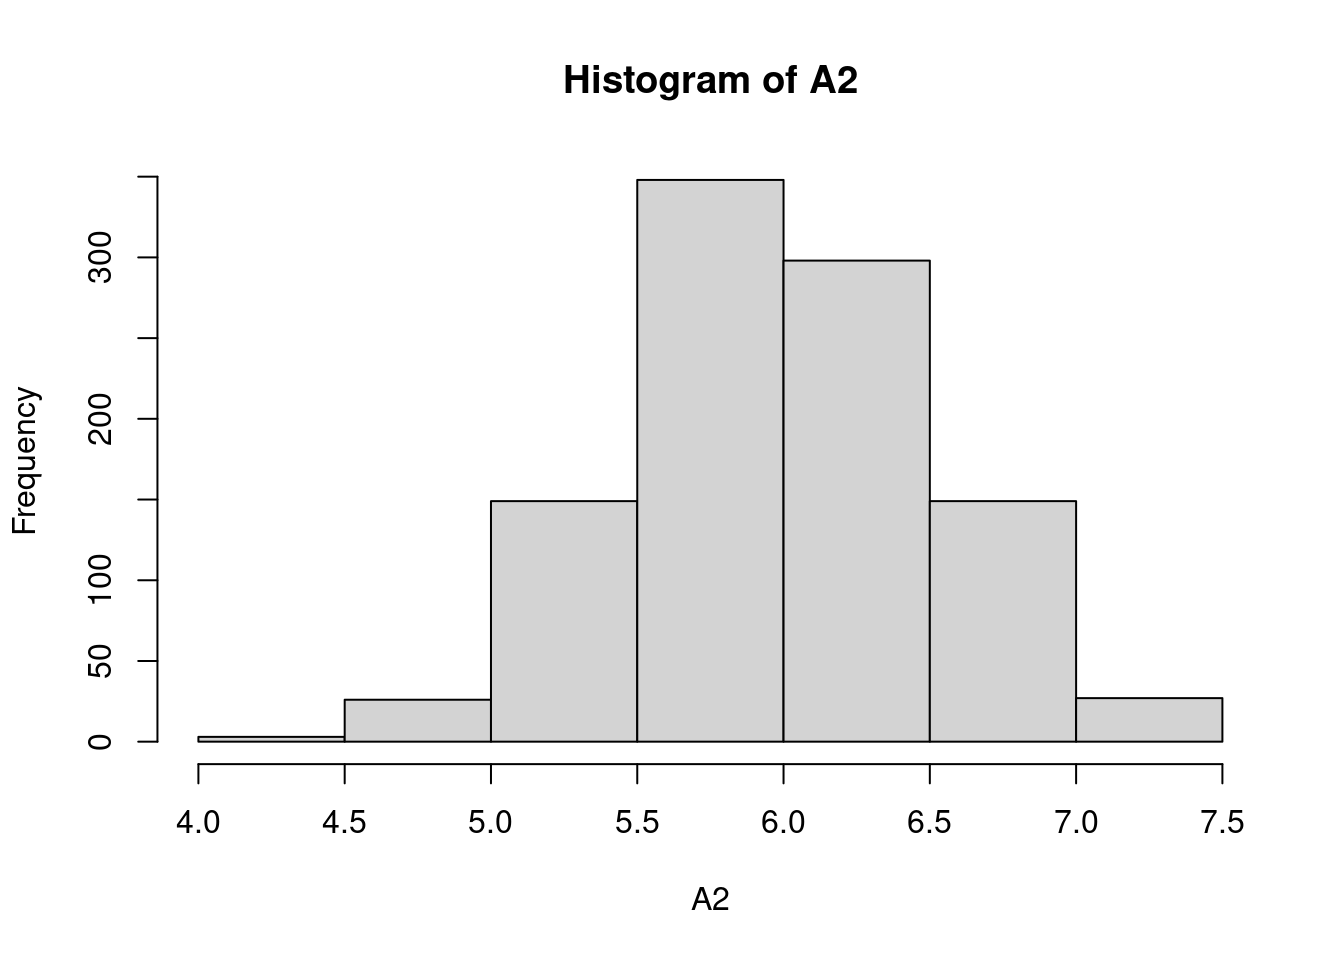
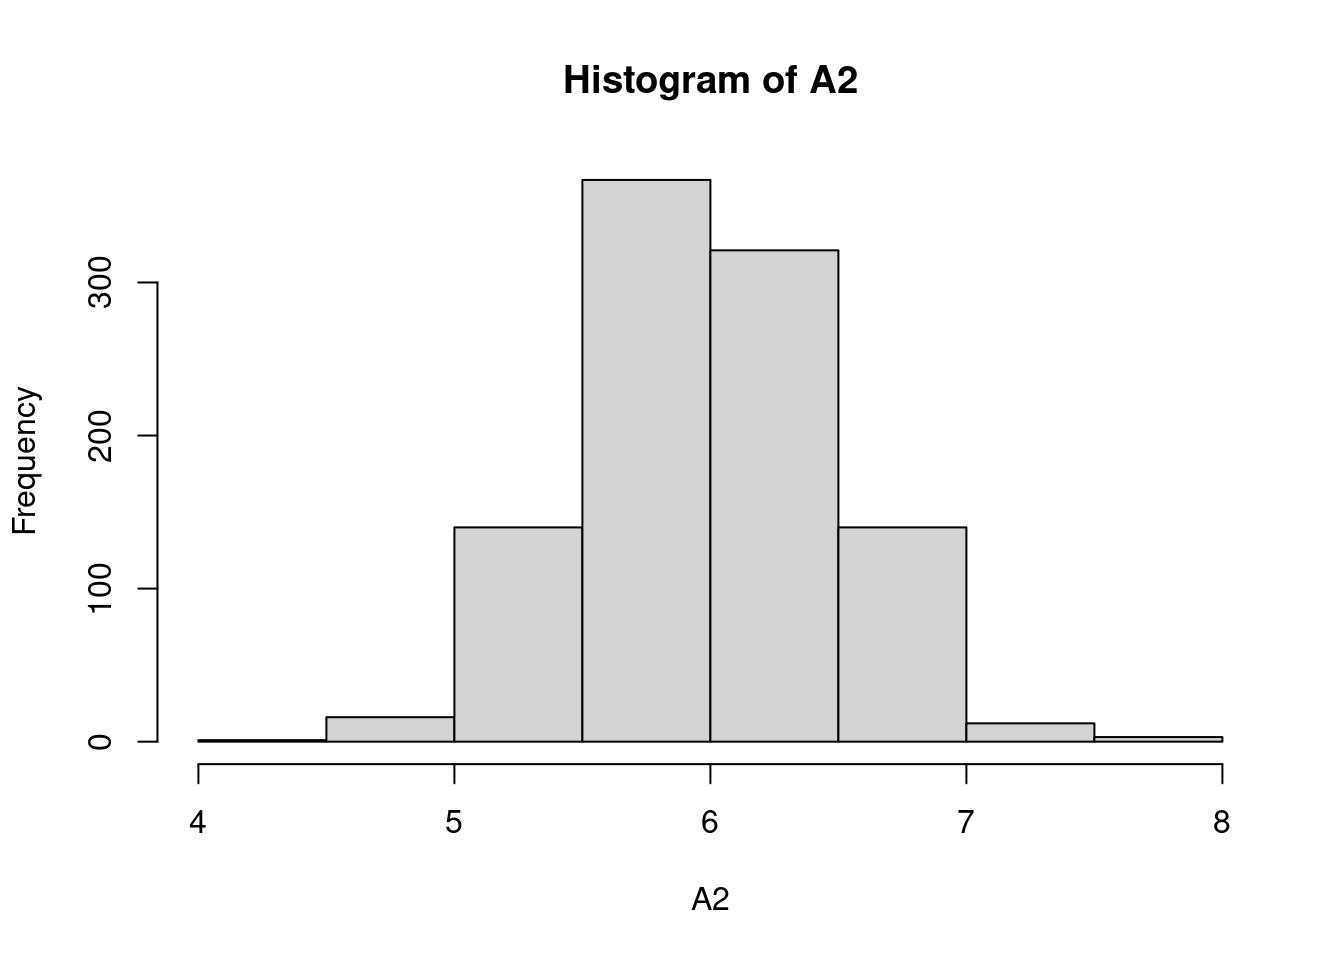
ajustes pagina simulacion

diff --git a/simulacion.html b/simulacion.html
@@ -527,11 +527,15 @@ div.tocify {
 </div>
 
 
-<div id="simulación" class="section level1">
-<h1><strong>3. Simulación</strong></h1>
+<div id="funciones-modelos" class="section level1">
+<h1><strong>Funciones modelos</strong></h1>
+<div id="código-r" class="section level4">
+<h4><strong>Código R</strong></h4>
 <p>Existe un grupo de modelos identificados para las variables aleatorias tanto discretas como continuas que son utilizadas con frecuencia en diferentes contextos. A continuación se relacionan los principales modelos:</p>
+<p><br/><br/></p>
+</div>
 <div id="modelos-discretos" class="section level4">
-<h4>Modelos discretos:</h4>
+<h4><strong>Modelos discretos</strong>:</h4>
 <ul>
 <li>Bernoulli,</li>
 <li>binomial,</li>
@@ -540,9 +544,10 @@ div.tocify {
 <li>hipergeometrico,</li>
 <li>binomial negativo.</li>
 </ul>
+<p><br/><br/></p>
 </div>
 <div id="modelos-continuos" class="section level4">
-<h4>Modelos continuos:</h4>
+<h4><strong>Modelos continuos</strong>:</h4>
 <ul>
 <li>uniforme</li>
 <li>normal</li>
@@ -558,15 +563,18 @@ div.tocify {
 <li>F de Fisher</li>
 <li>Empirica o Kernel</li>
 </ul>
+<p><br/><br/></p>
 <p>En <span class="math inline">\(R\)</span> los nombre de las funciones diseñadas para los cálculos requeridos están conformadas por dos partes:</p>
-<p>La primera parte es una letra que identifica el propósito de la función.</p>
+<p>La primera parte es una letra que identifica el propósito de la función. <br/><br/></p>
 <ul>
-<li><em>d</em> : función de distribución de probabilidad <span class="math inline">\(f(x)= P(X=x)\)</span>, para el caso discreto. En el caso de las variables continuas representa la función de densidad de probabilidad <span class="math inline">\(f(x)\)</span></li>
-<li><em>p</em> : función de probbilidad acumulada <span class="math inline">\(F(x) = P(X \leq x)\)</span></li>
-<li><em>q</em> : percentil <span class="math inline">\(X_p\)</span></li>
-<li><em>r</em> : generador de números aleatorios</li>
+<li><p><em>d</em> : función de distribución de probabilidad <span class="math inline">\(f(x)= P(X=x)\)</span>, para el caso discreto. En el caso de las variables continuas representa la función de densidad de probabilidad <span class="math inline">\(f(x)\)</span></p></li>
+<li><p><em>p</em> : función de probbilidad acumulada <span class="math inline">\(F(x) = P(X \leq x)\)</span></p></li>
+<li><p><em>q</em> : percentil <span class="math inline">\(X_p\)</span></p></li>
+<li><p><em>r</em> : generador de números aleatorios</p></li>
 </ul>
+<p><br/><br/></p>
 <p>La siguiene tabla presenta estas las funciones para los principales modelos tanto discretos como continuos</p>
+<p><br/><br/></p>
 <table>
 <thead>
 <tr class="header">
@@ -685,8 +693,10 @@ div.tocify {
 </tr>
 </tbody>
 </table>
+<p><br/><br/></p>
 <p>En <strong>R</strong> los nombres de las funciones diseñadas para los cálculos requeridos están conformadas por dos partes: la primera parte con el propósito de la función (primera letra) y la segunda parte hace referencia al modelo a utilizar (<strong>d</strong> <strong>binom</strong> para el calculo de probabilidad de una variable aleatoria con distribución binomial)</p>
 <p>En cada caso si no recuerda las sintaxis de la función puede hacer uso de las ayudas de R así:</p>
+<p><br/><br/></p>
 <pre class="r"><code> help(&quot;pbinom&quot;)</code></pre>
 <p><br/><br/></p>
 <table>
@@ -710,7 +720,9 @@ div.tocify {
 </tbody>
 </table>
 <p><br/><br/></p>
-<p><strong>Ejemplo 1</strong></p>
+</div>
+<div id="ejemplo-1" class="section level2">
+<h2><strong>Ejemplo 1</strong></h2>
 <p>Sea una variables con distribución binomial con parámetros <span class="math inline">\(n=20\)</span> y <span class="math inline">\(p=0.30\)</span> , lo cual se puede simbolizar como : <span class="math inline">\(X\sim b(x; 20,0.30)\)</span></p>
 <p>En este caso se requieren realizar los siguientes procesos:</p>
 <p><br/></p>
@@ -762,7 +774,7 @@ data.frame(x,fx,Fx)        # construye tabla</code></pre>
 <li>Generar 15 números aleatorios a partir de esta distribución</li>
 </ol>
 <pre class="r"><code>rbinom(15,20,0.30)</code></pre>
-<pre><code>##  [1] 5 8 5 9 9 5 7 6 8 7 5 7 8 5 8</code></pre>
+<pre><code>##  [1]  6  7  5  5  6  4  8  7  3  6  5 12 10  5  5</code></pre>
 <p><br/></p>
 <ol start="5" style="list-style-type: decimal">
 <li>Construir la gráfica de la función de distribución de probabilidad <span class="math inline">\(f(x)\)</span> para <span class="math inline">\(X\)</span></li>
@@ -793,8 +805,10 @@ ggplot(dat) + geom_point(aes(x, fx),colour = &quot;orange&quot;, size = 4) +
           breaks = 0:20, 
         labels = c(&#39;0&#39;,&#39;1&#39;,&#39;2&#39;,&#39;3&#39;,&#39;4&#39;,&#39;5&#39;,&#39;6&#39;,&#39;7&#39;,&#39;8&#39;,&#39;9&#39;,&#39;10&#39;,&#39;11&#39;,&#39;12&#39;,&#39;13&#39;,&#39;14&#39;, &#39;15&#39;,&#39;16&#39;,&#39;17&#39;,&#39;18&#39;,&#39;19&#39;,&#39;20&#39;))</code></pre>
 <p><img src="simulacion_files/figure-html/unnamed-chunk-8-1.png" width="672" /></p>
-<p><br/><br/></p>
-<p><strong>Ejemplo 2</strong></p>
+<p><br/><br/><br/></p>
+</div>
+<div id="ejemplo-2" class="section level2">
+<h2><strong>Ejemplo 2</strong></h2>
 <p>Ahora supongamos que se tiene una variable continua con distribución normal, con media 50 y varianza 100, es decir desviación estándar 10, lo cual se puede representar como <span class="math inline">\(X\sim N(50,100)\)</span>\.</p>
 <p>En este caso vamos a hallar los siguientes valores:</p>
 <p><br/></p>
@@ -814,7 +828,8 @@ ggplot(dat) + geom_point(aes(x, fx),colour = &quot;orange&quot;, size = 4) +
 <li>Genere 10 números aleatorios de la variables <span class="math inline">\(X\)</span></li>
 </ol>
 <pre class="r"><code>rnorm(10,70,sqrt(100))</code></pre>
-<pre><code>##  [1] 77.50811 63.24581 75.02488 72.12223 82.73734 73.37899 64.27605 60.61819 73.92632 60.45647</code></pre>
+<pre><code>##  [1] 57.07296 69.44587 52.43551 65.29131 73.43187 68.31509 79.93121 61.57208
+##  [9] 83.45906 72.99304</code></pre>
 <p><br/></p>
 <ol start="4" style="list-style-type: decimal">
 <li>Generar la gráfica de la función de densidad de la variable <span class="math inline">\(X\)</span>, <span class="math inline">\(f(x)\)</span></li>
@@ -841,15 +856,18 @@ library(ggfortify)
 ggdistribution(pnorm, seq(-4, 4, 0.1), mean = 0, sd = 1)</code></pre>
 <p><img src="simulacion_files/figure-html/unnamed-chunk-15-1.png" width="672" /> <br/></p>
 <p>Por otro lado el proceso de simulación de variables estadisticas esta relacionado con los experimentos llamados de Montecarlo, a continuación se describe brevemente su origen.</p>
+<p><br/><br/><br/></p>
 </div>
-<div id="método-de-montecarlo" class="section level2">
-<h2><strong>3.1 Método de Montecarlo</strong></h2>
+</div>
+<div id="método-de-montecarlo" class="section level1">
+<h1><strong>Método de Montecarlo</strong></h1>
 <p>Es un método no determinista o estadístico numérico, usado para aproximar expresiones matemáticas complejas y costosas de evaluar con exactitud. El método se llamó así en referencia al Casino de Montecarlo (Mónaco) por ser “la capital del juego de azar”, al ser la ruleta un generador simple de números aleatorios. El nombre y el desarrollo sistemático de los métodos de Montecarlo datan aproximadamente de 1944 y se mejoraron enormemente con el desarrollo de la computadora.</p>
 <p>El uso de los métodos de Montecarlo como herramienta de investigación, proviene del trabajo realizado en el desarrollo de la bomba atómica durante la Segunda Guerra Mundial en el Laboratorio Nacional de Los Álamos en EE. UU. Este trabajo conllevaba la simulación de problemas probabilísticos de hidrodinámica concernientes a la difusión de neutrones en el material de fisión. Esta difusión posee un comportamiento eminentemente aleatorio.<br />
 (tomado de Wikipedia)</p>
 <p>Como ejemplo se presentan los siguientes problemas tomados de Navidi.</p>
 <p><br/><br/></p>
-<p><strong>Ejemplo 3 </strong></p>
+<div id="ejemplo-3" class="section level2">
+<h2><strong>Ejemplo 3</strong></h2>
 <p>Se fabrican placas rectangulares cuyas longitudes en pulgadas se distribuyen como <span class="math inline">\(N(2.0; 0.01)\)</span> y cuyos anchos se distribuyen <span class="math inline">\(N(3.0; 0.04)\)</span>. Suponga que las longitudes y los anchos son independientes. El área de una placa esta dada por <span class="math inline">\(A=XY\)</span>.</p>
 <p><img src="img\lamina.png" /></p>
 <ol style="list-style-type: lower-alpha">
@@ -858,19 +876,19 @@ ggdistribution(pnorm, seq(-4, 4, 0.1), mean = 0, sd = 1)</code></pre>
 <li><p>Construya una gráfica de distribución normal <span class="math inline">\((qqplot)\)</span> para el área. ¿El área de una placa sigue una distribución normal?</p></li>
 </ol>
 <p>Problema 3 capitulo 4 Navidi(2006)</p>
+<p><br/></p>
 <p><strong>Solución</strong></p>
-<pre class="r"><code>    X2=rnorm(1000,mean=2.0,sd=0.1)    #  generación de numeros aleatorios  de X
-    Y2=rnorm(1000,mean=3.0,sd=0.2)    #  generacion de numeros aleatorios  deY
-    Z2=data.frame(X2,Y2)              #  generacion de matriz de X,Y
-    A2=apply(Z2,1,prod)               #  area de la placa A=XY
-    mediaA=mean(A2)                   #  media del vector de areas 
-    varianzaA=var(A2)                 #  varianza del vector de areas 
-    B2=as.numeric(A2&gt;5.9 &amp; A2&lt;6.1)    #  generacion de variable de 0,1, 
-    #  con 1 donde cumplecondicion   
+<pre class="r"><code>    X2=rnorm(1000,mean=2.0,sd=0.1)    #  generación de números aleatorios  de X
+    Y2=rnorm(1000,mean=3.0,sd=0.2)    #  generación de números aleatorios  de Y
+    Z2=data.frame(X2,Y2)              #  generación de matriz de X,Y
+    A2=apply(Z2,1,prod)               #  área de la placa A=XY
+    mediaA=mean(A2)                   #  media del vector de áreas 
+    varianzaA=var(A2)                 #  varianza del vector de áreas 
+    B2=as.numeric(A2&gt;5.9 &amp; A2&lt;6.1)    #  generación de variable de 0,1. Con valor de 1 cundo se cumple la condición y cero en otros casos
     Pro3c=sum(B2)/1000                #  calculo de la  probabilidad 
-    hist(A2)                          # histograma del valor de las areas</code></pre>
+    hist(A2)                          # histograma del valor de las áreas</code></pre>
 <p><img src="simulacion_files/figure-html/unnamed-chunk-16-1.png" width="672" /></p>
-<pre class="r"><code>    qqnorm(A2)                        # grafico de normalidad del area</code></pre>
+<pre class="r"><code>    qqnorm(A2)                        # gráfico de normalidad del área</code></pre>
 <p><img src="simulacion_files/figure-html/unnamed-chunk-16-2.png" width="672" /></p>
 <pre class="r"><code>summarytools::descr(A2)</code></pre>
 <pre><code>## Descriptive Statistics  
@@ -879,19 +897,19 @@ ggdistribution(pnorm, seq(-4, 4, 0.1), mean = 0, sd = 1)</code></pre>
 ## 
 ##                       value
 ## ----------------- ---------
-##              Mean      6.00
-##           Std.Dev      0.53
-##               Min      4.35
+##              Mean      5.99
+##           Std.Dev      0.49
+##               Min      4.34
 ##                Q1      5.64
-##            Median      5.97
-##                Q3      6.38
-##               Max      7.50
-##               MAD      0.55
-##               IQR      0.73
-##                CV      0.09
-##          Skewness      0.02
+##            Median      5.96
+##                Q3      6.33
+##               Max      7.89
+##               MAD      0.50
+##               IQR      0.68
+##                CV      0.08
+##          Skewness      0.08
 ##       SE.Skewness      0.08
-##          Kurtosis     -0.22
+##          Kurtosis      0.03
 ##           N.Valid   1000.00
 ##         Pct.Valid    100.00</code></pre>
 </div>
